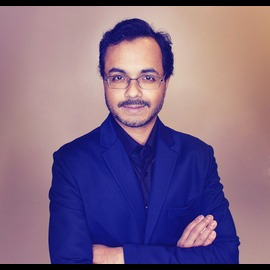
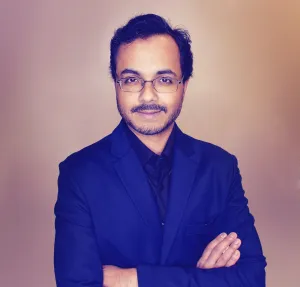
update profile

diff --git a/content/authors/admin/_index.md b/content/authors/admin/_index.md
@@ -1,10 +1,10 @@
 ---
 # Display name
-title: Alice Wu 吳恩達
+title: Ashraf Hussain
 
 # Full name (for SEO)
-first_name: Alice
-last_name: Wu
+first_name: Ashraf
+last_name: Hussain
 
 # Status emoji
 status:
@@ -14,7 +14,7 @@ status:
 superuser: true
 
 # Role/position/tagline
-role: Professor of Artificial Intelligence
+role: Data Scientist & Machine Learning Engineer
 
 # Organizations/Affiliations to show in About widget
 organizations:
